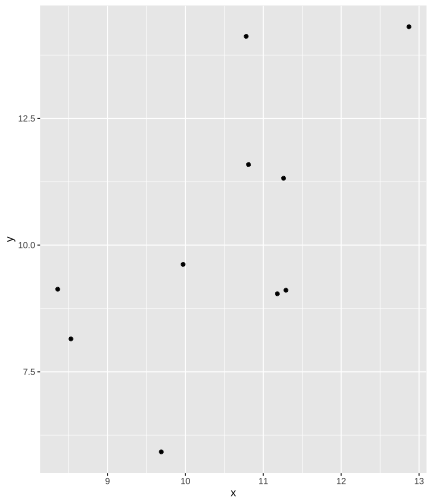
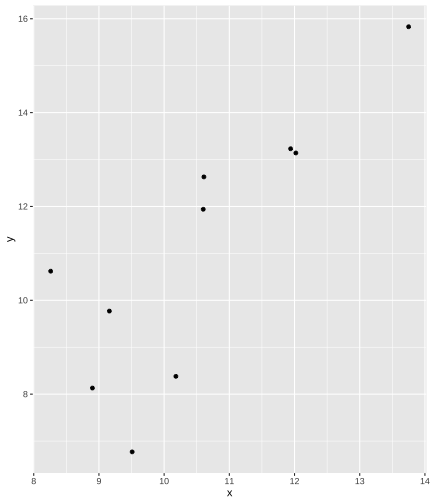
updated deck and knitted

diff --git a/slides/deck.html b/slides/deck.html
@@ -96,7 +96,7 @@ class: center, middle
 # Some resources
 
 .pull-left[
-#### *links* for great xaringan slides 😀  
+#### *links* for great xaringan slides 🙋  
 
 - [Garth Tarr presentation](https://garthtarr.github.io/sydney_xaringan/#1)  
 
@@ -178,8 +178,8 @@ there are just notes!
 ---
 
 # Interactive tables!  
-<div id="htmlwidget-7db0b35b99d1ae9c034e" style="width:100%;height:auto;" class="datatables html-widget"></div>
-<script type="application/json" data-for="htmlwidget-7db0b35b99d1ae9c034e">{"x":{"filter":"none","extensions":["Buttons"],"data":[[11.29,11.18,10.78,12.87,9.97,8.53,10.81,9.69,8.36,11.26],[-2.18,-2.15,3.34,1.44,-0.35,-0.38,0.78,-3.77,0.78,0.07],[9.11,9.04,14.12,14.31,9.62,8.15,11.59,5.92,9.13,11.32]],"container":"<table class=\"compact\">\n  <thead>\n    <tr>\n      <th>x<\/th>\n      <th>e<\/th>\n      <th>y<\/th>\n    <\/tr>\n  <\/thead>\n<\/table>","options":{"dom":"tBp","buttons":["csv","excel"],"pageLength":4,"columnDefs":[{"targets":0,"render":"function(data, type, row, meta) { return DTWidget.formatRound(data, 1, 3, \",\", \".\"); }"},{"targets":1,"render":"function(data, type, row, meta) { return DTWidget.formatRound(data, 1, 3, \",\", \".\"); }"},{"targets":2,"render":"function(data, type, row, meta) { return DTWidget.formatRound(data, 1, 3, \",\", \".\"); }"},{"className":"dt-right","targets":[0,1,2]}],"order":[],"autoWidth":false,"orderClasses":false,"lengthMenu":[4,10,25,50,100]}},"evals":["options.columnDefs.0.render","options.columnDefs.1.render","options.columnDefs.2.render"],"jsHooks":[]}</script>
+<div id="htmlwidget-e87e9319389145be9c8f" style="width:100%;height:auto;" class="datatables html-widget"></div>
+<script type="application/json" data-for="htmlwidget-e87e9319389145be9c8f">{"x":{"filter":"none","extensions":["Buttons"],"data":[[10.18,10.6,9.51,8.9,13.75,10.61,8.26,12.02,11.94,9.16],[-1.8,1.34,-2.74,-0.76,2.08,2.01,2.36,1.12,1.29,0.6],[8.38,11.94,6.77,8.13,15.83,12.63,10.62,13.14,13.23,9.77]],"container":"<table class=\"compact\">\n  <thead>\n    <tr>\n      <th>x<\/th>\n      <th>e<\/th>\n      <th>y<\/th>\n    <\/tr>\n  <\/thead>\n<\/table>","options":{"dom":"tBp","buttons":["csv","excel"],"pageLength":4,"columnDefs":[{"targets":0,"render":"function(data, type, row, meta) { return DTWidget.formatRound(data, 1, 3, \",\", \".\"); }"},{"targets":1,"render":"function(data, type, row, meta) { return DTWidget.formatRound(data, 1, 3, \",\", \".\"); }"},{"targets":2,"render":"function(data, type, row, meta) { return DTWidget.formatRound(data, 1, 3, \",\", \".\"); }"},{"className":"dt-right","targets":[0,1,2]}],"order":[],"autoWidth":false,"orderClasses":false,"lengthMenu":[4,10,25,50,100]}},"evals":["options.columnDefs.0.render","options.columnDefs.1.render","options.columnDefs.2.render"],"jsHooks":[]}</script>
 
 
 --
@@ -207,8 +207,8 @@ Make sure to toggle and zoom on the map ➡]
 ]]
 
 .pull-right[
-<div id="htmlwidget-ed60c4c430847e0e23b2" style="width:504px;height:432px;" class="leaflet html-widget"></div>
-<script type="application/json" data-for="htmlwidget-ed60c4c430847e0e23b2">{"x":{"options":{"crs":{"crsClass":"L.CRS.EPSG3857","code":null,"proj4def":null,"projectedBounds":null,"options":{}}},"calls":[{"method":"addTiles","args":["//{s}.tile.openstreetmap.org/{z}/{x}/{y}.png",null,null,{"minZoom":0,"maxZoom":18,"tileSize":256,"subdomains":"abc","errorTileUrl":"","tms":false,"noWrap":false,"zoomOffset":0,"zoomReverse":false,"opacity":1,"zIndex":1,"detectRetina":false,"attribution":"&copy; <a href=\"http://openstreetmap.org\">OpenStreetMap<\/a> contributors, <a href=\"http://creativecommons.org/licenses/by-sa/2.0/\">CC-BY-SA<\/a>"}]}],"setView":[[42.0285,-93.65],17,[]]},"evals":[],"jsHooks":[]}</script>
+<div id="htmlwidget-08808c80d1f319c3ede0" style="width:504px;height:432px;" class="leaflet html-widget"></div>
+<script type="application/json" data-for="htmlwidget-08808c80d1f319c3ede0">{"x":{"options":{"crs":{"crsClass":"L.CRS.EPSG3857","code":null,"proj4def":null,"projectedBounds":null,"options":{}}},"calls":[{"method":"addTiles","args":["//{s}.tile.openstreetmap.org/{z}/{x}/{y}.png",null,null,{"minZoom":0,"maxZoom":18,"tileSize":256,"subdomains":"abc","errorTileUrl":"","tms":false,"noWrap":false,"zoomOffset":0,"zoomReverse":false,"opacity":1,"zIndex":1,"detectRetina":false,"attribution":"&copy; <a href=\"http://openstreetmap.org\">OpenStreetMap<\/a> contributors, <a href=\"http://creativecommons.org/licenses/by-sa/2.0/\">CC-BY-SA<\/a>"}]}],"setView":[[42.0285,-93.65],17,[]]},"evals":[],"jsHooks":[]}</script>
 ]
 
 
@@ -271,16 +271,16 @@ with flipbookr
 # A tibble: 10 x 3
        x     e     y
    &lt;dbl&gt; &lt;dbl&gt; &lt;dbl&gt;
- 1 11.3  -2.18  9.11
- 2 11.2  -2.15  9.04
- 3 10.8   3.34 14.1 
- 4 12.9   1.44 14.3 
- 5  9.97 -0.35  9.62
- 6  8.53 -0.38  8.15
- 7 10.8   0.78 11.6 
- 8  9.69 -3.77  5.92
- 9  8.36  0.78  9.13
-10 11.3   0.07 11.3 
+ 1 10.2  -1.8   8.38
+ 2 10.6   1.34 11.9 
+ 3  9.51 -2.74  6.77
+ 4  8.9  -0.76  8.13
+ 5 13.8   2.08 15.8 
+ 6 10.6   2.01 12.6 
+ 7  8.26  2.36 10.6 
+ 8 12.0   1.12 13.1 
+ 9 11.9   1.29 13.2 
+10  9.16  0.6   9.77
 ```
 ]
 
@@ -438,7 +438,7 @@ You'll have 5 minutes!
 --
 
 .pull-left[
-<div class="countdown" id="timer_5fb75bca" style="bottom:10;left:15;padding:0px;" data-audio="true" data-warnwhen="0">
+<div class="countdown" id="timer_5fb820ba" style="bottom:10;left:15;padding:0px;" data-audio="true" data-warnwhen="0">
 <code class="countdown-time"><span class="countdown-digits minutes">05</span><span class="countdown-digits colon">:</span><span class="countdown-digits seconds">00</span></code>
 </div>  
 ]
@@ -468,10 +468,6 @@ class: center, middle
 <i class="fab  fa-github "></i> [@leombastos](https://github.com/leombastos)
 
 ]]]
-
----
-
-This is a test
     </textarea>
 <style data-target="print-only">@media screen {.remark-slide-container{display:block;}.remark-slide-scaler{box-shadow:none;}}</style>
 <script src="https://remarkjs.com/downloads/remark-latest.min.js"></script>
